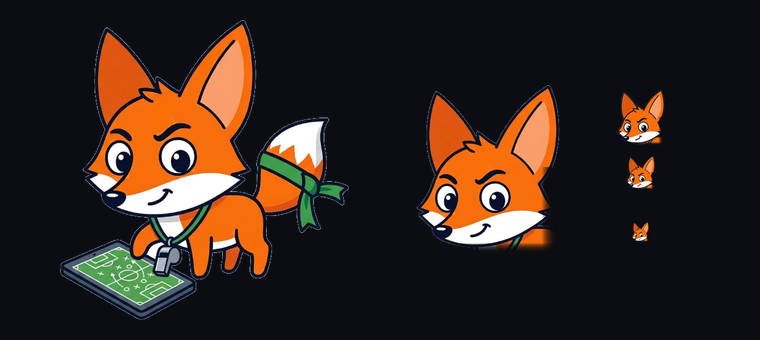
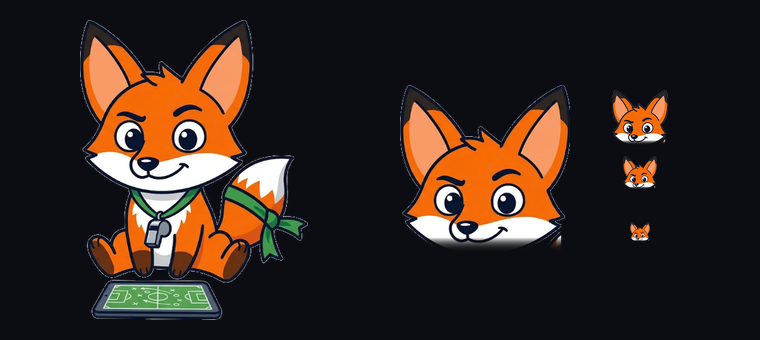
feat(web): poses del Míster por lugar y script para preparar sus ilustraciones
Chat alterna mirar la tablet y al usuario, resumen con lentes y avisos dados por el Míster; cada pose cae a la base si aún no existe. Base: zorro sentado.

diff --git a/src/footy/web/static/index.html b/src/footy/web/static/index.html
@@ -50,10 +50,10 @@
       <div class="tb-actions">
         <button type="button" class="tb-btn alerts-btn" id="alerts-btn" aria-controls="alerts-panel" aria-expanded="false" aria-label="Avisos"><svg class="ico bell" viewBox="0 0 24 24" fill="none" stroke="currentColor" stroke-width="1.8" stroke-linecap="round" stroke-linejoin="round" aria-hidden="true"><path d="M6 8a6 6 0 0 1 12 0c0 7 3 9 3 9H3s3-2 3-9"/><path d="M10.3 21a1.94 1.94 0 0 0 3.4 0"/></svg><span>Avisos</span><span class="badge" id="alerts-count" hidden></span></button>
         <section class="alerts-panel" id="alerts-panel" role="dialog" aria-labelledby="alerts-title" hidden>
-          <header class="alerts-head"><h2 id="alerts-title">Avisos</h2>
+          <header class="alerts-head"><span class="alerts-mister" data-mister="alerts" data-size="56"></span><h2 id="alerts-title">Avisos del Míster</h2>
             <button type="button" class="alerts-read-all" id="alerts-read-all">Marcar todas</button>
             <button type="button" class="td-close" id="alerts-close" aria-label="Cerrar avisos">×</button></header>
-          <p class="alerts-note">Juegan tus equipos, cuotas con valor frente a Pinnacle y combinadas. Seguimiento en papel.</p>
+          <p class="alerts-note">Te aviso cuando juegan tus equipos, cuando hay cuotas con valor frente a Pinnacle y combinadas. Seguimiento en papel.</p>
           <div class="alerts-list" id="alerts-list" aria-live="polite"></div>
           <p class="alerts-status" id="alerts-status" role="status"></p>
         </section>
@@ -73,14 +73,15 @@
   <div class="grid g2" id="home-tiles" data-skel="kpi:2"></div>
   <section class="card brief-card" id="agent-brief" aria-labelledby="brief-title">
       <div class="brief-head">
-        <h2 id="brief-title"><span class="brief-mister" data-mister="face" data-size="28"></span>Tu resumen del Míster</h2>
+        <h2 id="brief-title">Tu resumen del Míster</h2>
         <div class="brief-actions">
 
           <button type="button" class="chip" id="brief-refresh" aria-label="Actualizar resumen" title="Actualizar resumen"><svg class="ico" viewBox="0 0 24 24" fill="none" stroke="currentColor" stroke-width="2" stroke-linecap="round" stroke-linejoin="round" aria-hidden="true"><path d="M21 12a9 9 0 1 1-2.6-6.4L21 8"/><path d="M21 3v5h-5"/></svg></button>
         </div>
       </div>
-      <div class="brief-body" aria-live="polite"></div>
-      <div class="brief-foot"></div>
+      <div class="brief-main"><span class="brief-pose" data-mister="brief" data-size="104"></span>
+        <div class="brief-text"><div class="brief-body" aria-live="polite"></div>
+        <div class="brief-foot"></div></div></div>
     </section>
 
   <section class="home-review" aria-labelledby="review-title">
@@ -463,7 +464,7 @@
     <button type="button" class="td-close chat-close" aria-label="Cerrar el chat con el Míster">×</button>
   </header>
   <div class="chat-log" aria-live="polite">
-    <div class="msg bot msg-intro"><span class="intro-mister" data-mister="full" data-size="112"></span><div class="msg-text">Aquí el Míster. En este equipo los números mandan, no la camiseta. Pregúntame por un partido, la tabla, cómo llega un equipo o si hay alguna cuota con valor.</div></div>
+    <div class="msg bot msg-intro"><span class="intro-mister" data-mister="chat" data-size="120"></span><div class="msg-text">Aquí el Míster. En este equipo los números mandan, no la camiseta. Pregúntame por un partido, la tabla, cómo llega un equipo o si hay alguna cuota con valor.</div></div>
   </div>
   <div class="chat-suggest">
     <button type="button" class="chip">¿Qué apuestas con valor hay hoy?</button>

diff --git a/src/footy/web/static/mascot.js b/src/footy/web/static/mascot.js
@@ -1,16 +1,27 @@
-/* El Míster: mascota del asistente. Un zorro DT («el zorro del banco»): ilustración original del autor,
-   con el fondo quitado. Dos recortes: cabeza (avatar, botón flotante, resumen, estados vacíos) y cuerpo entero
-   (saludo del chat). Las animaciones son de la imagen completa y solo sin «reducir movimiento». */
+/* El Míster: mascota del asistente. Un zorro DT («el zorro del banco»): ilustraciones originales del autor con el
+   fondo quitado (scripts/prepare_mascot.py). Cada lugar del sitio usa su pose; si una pose aún no existe, la imagen
+   cae a la pose base (full), así el sitio nunca muestra una imagen rota.
+     face         cabeza: botón del chat, avatar, citas en estados vacíos
+     full         cuerpo entero base
+     chat-tablet  saludo del chat, mirando la tablet que sostiene ┐ se alternan: mira la tablet y luego al usuario
+     chat-look    saludo del chat, mirando al usuario           ┘
+     brief        con lentes, dando su análisis (resumen del día)
+     alerts       dando un aviso (panel de avisos)
+   Las animaciones mueven la imagen completa y solo corren sin «reducir movimiento». */
 
-const MISTER_FACE_SRC = "/static/img/mister-face.png";
-const MISTER_FULL_SRC = "/static/img/mister-full.png";
+const MISTER_POSES = ["face", "full", "chat-tablet", "chat-look", "brief", "alerts"];
+const misterSrc = (pose) => `/static/img/mister-${MISTER_POSES.includes(pose) ? pose : "full"}.png`;
 
-function misterFace(size = 32, extra = "") {
-  return `<img class="mister mister-face ${extra}" src="${MISTER_FACE_SRC}" width="${size}" height="${size}" alt="" decoding="async">`;
+function misterImg(pose, size, extra = "") {
+  const fallback = pose === "face" || pose === "full" ? "" : ` onerror="this.onerror=null;this.src='${misterSrc("full")}'"`;
+  return `<img class="mister mister-${pose} ${extra}" src="${misterSrc(pose)}" width="${size}" height="${size}"
+    alt="" decoding="async"${fallback}>`;
 }
-function misterFull(size = 120, extra = "") {
-  return `<img class="mister mister-full ${extra}" src="${MISTER_FULL_SRC}" width="${size}" height="${Math.round(size * 440 / 424)}" alt="" decoding="async">`;
-}
+const misterFace = (size = 32, extra = "") => misterImg("face", size, extra);
+const misterFull = (size = 120, extra = "") => misterImg("full", size, extra);
+// Saludo del chat: dos cuadros superpuestos que se alternan (mira la tablet, luego al usuario).
+const misterChat = (size = 112) => `<span class="mister-duo" style="--duo:${size}px">
+  ${misterImg("chat-tablet", size, "duo-a")}${misterImg("chat-look", size, "duo-b")}</span>`;
 // Frase con el Míster para estados vacíos: el texto lo pone quien llama (siempre un hecho del sistema, sin cifras inventadas).
 function misterQuote(text, size = 44) {
   return `<div class="mister-quote">${misterFace(size)}<p>${text}</p></div>`;
@@ -20,8 +31,8 @@ function misterThinking(on) {
   document.querySelectorAll(".mister-live").forEach((el) => el.classList.toggle("is-thinking", on));
 }
 
-// Ranuras estáticas del HTML: <span data-mister="face|full" data-size="..."></span>
+// Ranuras estáticas del HTML: <span data-mister="face|chat|brief|alerts|full" data-size="..."></span>
 document.querySelectorAll("[data-mister]").forEach((slot) => {
-  const size = Number(slot.dataset.size) || undefined;
-  slot.innerHTML = slot.dataset.mister === "full" ? misterFull(size) : misterFace(size);
+  const pose = slot.dataset.mister, size = Number(slot.dataset.size) || 64;
+  slot.innerHTML = pose === "chat" ? misterChat(size) : misterImg(pose, size);
 });

diff --git a/src/footy/web/static/styles.css b/src/footy/web/static/styles.css
@@ -1646,11 +1646,19 @@ section.view > .trust-hidden { display: none; }
 .msg-intro .msg-text { flex: 1; }
 @media (max-width: 560px) {
   .msg-intro { flex-direction: column; align-items: flex-start; gap: 4px; }
-  .msg-intro .intro-mister .mister { width: 76px; height: auto; }
+  .msg-intro .mister-duo { --duo: 84px; }
 }
-.brief-mister { display: inline-grid; place-items: center; width: 36px; height: 36px; margin-right: 8px; border-radius: 50%;
-  background: var(--accent-soft); vertical-align: middle; overflow: hidden; }
-#brief-title { display: flex; align-items: center; }
+/* Resumen: el Míster con lentes da su análisis junto al texto */
+.brief-main { display: flex; align-items: flex-start; gap: var(--s-3); }
+.brief-pose { flex: none; }
+.brief-text { flex: 1; min-width: 0; }
+@media (max-width: 560px) { .brief-pose .mister { width: 72px; height: 72px; } }
+/* Avisos: los da el Míster */
+.alerts-mister { flex: none; margin: -6px 0 -6px -4px; }
+/* Saludo del chat: mira la tablet y luego al usuario (dos cuadros que se alternan) */
+.mister-duo { position: relative; display: block; width: var(--duo); height: var(--duo); }
+.mister-duo .mister { position: absolute; inset: 0; width: 100%; height: 100%; }
+.mister-duo .duo-b { opacity: 0; }
 .mister-quote { flex: 1 1 100%; display: flex; align-items: center; gap: 12px; margin-top: 12px; padding-top: 12px; border-top: 1px solid var(--grid); }
 .mister-quote .mister { flex: none; }
 .mister-quote p { margin: 0; font-size: var(--fs-sm); font-style: italic; color: var(--text-2); }
@@ -1661,8 +1669,12 @@ section.view > .trust-hidden { display: none; }
   .mister-live.is-thinking .mister-face { animation: fx-think 1.6s ease-in-out infinite; }
   .agent-fab:hover .mister-face { animation: fx-nod .6s ease-in-out; }
   .agent-fab .mister-face { animation: fx-pop .5s cubic-bezier(.34, 1.56, .64, 1) both; }
-  .mister-full { animation: fx-bob 4s ease-in-out infinite; }
+  .mister-duo .duo-a { animation: fx-duo-a 7s ease-in-out infinite; }
+  .mister-duo .duo-b { animation: fx-duo-b 7s ease-in-out infinite; }
+  .brief-pose .mister, .alerts-mister .mister { animation: fx-bob 4s ease-in-out infinite; }
 }
+@keyframes fx-duo-a { 0%, 42% { opacity: 1; } 50%, 92% { opacity: 0; } 100% { opacity: 1; } }
+@keyframes fx-duo-b { 0%, 42% { opacity: 0; } 50%, 92% { opacity: 1; } 100% { opacity: 0; } }
 @keyframes fx-think { 0%, 100% { transform: rotate(0); } 30% { transform: rotate(-8deg); } 70% { transform: rotate(6deg); } }
 @keyframes fx-nod { 0%, 100% { transform: rotate(0); } 35% { transform: rotate(-10deg) scale(1.05); } 70% { transform: rotate(4deg); } }
 @keyframes fx-bob { 0%, 100% { transform: translateY(0); } 50% { transform: translateY(-3px); } }

diff --git a/src/footy/web/static/alerts.js b/src/footy/web/static/alerts.js
@@ -38,7 +38,7 @@ function renderAlerts() {
   $("#alerts-btn").setAttribute("aria-label", unread.length ? `Avisos, ${unread.length} sin leer` : "Avisos");
   $("#alerts-read-all").disabled = !unread.length;
   if (!alertsState.items.length) {
-    list.innerHTML = `<div class="alerts-empty">${misterFace(52)}<b>Sin avisos nuevos</b><span>Te avisaremos cuando juegue un equipo que
+    list.innerHTML = `<div class="alerts-empty">${misterImg("alerts", 88)}<b>Sin avisos nuevos</b><span>Te avisaremos cuando juegue un equipo que
       sigues o aparezca una cuota que valga la pena frente a Pinnacle.</span></div>`;
     return;
   }

diff --git a/scripts/prepare_mascot.py b/scripts/prepare_mascot.py
@@ -1,0 +1,96 @@
+"""Prepara una pose del Míster (mascota) para el dashboard: quita el fondo blanco, recorta y exporta PNG.
+
+Uso:
+    .venv\\Scripts\\python scripts/prepare_mascot.py imagen.png --pose chat-tablet
+    .venv\\Scripts\\python scripts/prepare_mascot.py imagen.png --pose full --face 0,0,272,292 --clear 248,206
+
+Poses (archivo src/footy/web/static/img/mister-<pose>.png):
+    full         cuerpo entero base (saludo y respaldo de todas las poses)
+    chat-tablet  sosteniendo la tablet en alto y mirándola
+    chat-look    misma pose, mirando hacia el usuario (se alterna con chat-tablet)
+    brief        con lentes, dando su análisis (resumen del día)
+    alerts       dando un aviso (panel de avisos)
+--face recorta la cabeza (izquierda,arriba,derecha,abajo en píxeles de la imagen ya recortada) y genera
+mister-face.png de 256×256 con cuello desvanecido, para avatar, botón del chat y estados vacíos.
+--clear borra lo que asome abajo a la derecha del recorte (x,y desde la esquina del recorte), p. ej. la cola.
+"""
+
+import argparse
+from pathlib import Path
+
+from PIL import Image, ImageDraw, ImageFilter
+
+OUT = Path(__file__).resolve().parents[1] / "src" / "footy" / "web" / "static" / "img"
+POSES = ("full", "chat-tablet", "chat-look", "brief", "alerts")
+MAX_SIDE = 440          # 2× del mayor tamaño en pantalla (saludo del chat)
+SENTINEL = (255, 0, 255)
+
+
+def remove_background(image: Image.Image, threshold: int = 60) -> Image.Image:
+    """Inunda el blanco desde los bordes (el interior blanco queda protegido por el contorno del dibujo)."""
+    rgb = image.convert("RGB")
+    w, h = rgb.size
+    for seed in [(0, 0), (w - 1, 0), (0, h - 1), (w - 1, h - 1), (w // 2, 0), (w // 2, h - 1), (0, h // 2),
+                 (w - 1, h // 2)]:
+        if rgb.getpixel(seed) != SENTINEL and min(rgb.getpixel(seed)) > 200:
+            ImageDraw.floodfill(rgb, seed, SENTINEL, thresh=threshold)
+    out = rgb.convert("RGBA")
+    px = out.load()
+    for y in range(h):
+        for x in range(w):
+            if px[x, y][:3] == SENTINEL:
+                px[x, y] = (0, 0, 0, 0)
+    # Halo del antialias: píxeles casi blancos pegados al fondo pasan a semitransparentes.
+    edge = out.getchannel("A").filter(ImageFilter.MinFilter(3))
+    for y in range(h):
+        for x in range(w):
+            r, g, b, a = px[x, y]
+            if a and edge.getpixel((x, y)) == 0 and min(r, g, b) > 200:
+                px[x, y] = (r, g, b, int(255 * (1 - (min(r, g, b) - 200) / 55)))
+    return out.crop(out.getbbox())
+
+
+def face_crop(image: Image.Image, box: tuple[int, int, int, int], clear: tuple[int, int] | None = None,
+              fade: int = 28) -> Image.Image:
+    """Cabeza cuadrada de 256 px; el borde inferior se desvanece en vez de cortar el cuello en seco."""
+    crop = image.crop(box)
+    px = crop.load()
+    if clear:
+        for y in range(clear[1], crop.height):
+            for x in range(clear[0], crop.width):
+                px[x, y] = (0, 0, 0, 0)
+    for y in range(max(0, crop.height - fade), crop.height):
+        k = (crop.height - y) / fade
+        for x in range(crop.width):
+            r, g, b, a = px[x, y]
+            px[x, y] = (r, g, b, int(a * k))
+    side = max(crop.size)
+    square = Image.new("RGBA", (side, side), (0, 0, 0, 0))
+    square.paste(crop, ((side - crop.width) // 2, side - crop.height), crop)
+    return square.resize((256, 256), Image.LANCZOS)
+
+
+def main() -> None:
+    parser = argparse.ArgumentParser(description=__doc__, formatter_class=argparse.RawDescriptionHelpFormatter)
+    parser.add_argument("image", type=Path)
+    parser.add_argument("--pose", choices=POSES, required=True)
+    parser.add_argument("--face", help="recorte de la cabeza: izquierda,arriba,derecha,abajo")
+    parser.add_argument("--clear", help="borra desde x,y hasta la esquina inferior derecha del recorte")
+    args = parser.parse_args()
+    figure = remove_background(Image.open(args.image))
+    print(f"Recorte sin fondo: {figure.size[0]}×{figure.size[1]} px")
+    if args.face:
+        box = tuple(int(v) for v in args.face.split(","))
+        if len(box) != 4:
+            parser.error("--face necesita cuatro números: izquierda,arriba,derecha,abajo")
+        clear = tuple(int(v) for v in args.clear.split(",")) if args.clear else None
+        face_crop(figure, box, clear).save(OUT / "mister-face.png", optimize=True)
+        print(f"Cabeza: {OUT / 'mister-face.png'}")
+    figure.thumbnail((MAX_SIDE, MAX_SIDE), Image.LANCZOS)
+    target = OUT / f"mister-{args.pose}.png"
+    figure.save(target, optimize=True)
+    print(f"Pose {args.pose}: {target} ({figure.size[0]}×{figure.size[1]})")
+
+
+if __name__ == "__main__":
+    main()

diff --git a/README.md b/README.md
@@ -68,9 +68,9 @@ Colo Colo?»): el apelativo se quita antes de decidir la consulta. La personalid
 saludo o «¿quién eres?» recibe una presentación fija, sin LLM.
 
 Su mascota es un zorro DT, «el zorro del banco»: orejas enormes, cejas decididas, silbato con cordón verde, tablet
-táctica bajo la pata y cinta verde en la cola. Es una ilustración propia con el fondo quitado
-(`static/img/`), en dos recortes: la cabeza para tamaños chicos (botón del chat, avatar, resumen del día, avisos) y el
-cuerpo entero para el saludo. Ladea la cabeza mientras piensa la respuesta y respeta «reducir movimiento».
+táctica y cinta verde en la cola. Son ilustraciones propias con el fondo quitado (`scripts/prepare_mascot.py`), una
+por lugar: la cabeza en el botón del chat y el avatar; en el saludo mira la tablet y luego al usuario; con lentes en el
+resumen del día; y es quien da los avisos. Si una pose aún no existe, se usa la base. Respeta «reducir movimiento».
 
 ![El Míster: cuerpo entero y cabeza en distintos tamaños](docs/img/readme/el-mister.png)
 
